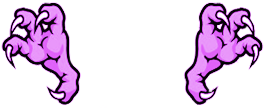
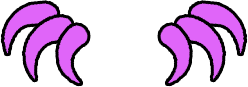
Added claws

diff --git a/Evolith/src/evolith/game/Game.java b/Evolith/src/evolith/game/Game.java
@@ -422,7 +422,7 @@ public class Game implements Runnable, Commons {
 
         //If paused, tick pause but not return
         if (paused) {
-            pausedTick();
+            pausedMultiTick();
         }
 
         //Tick involved objects
@@ -549,6 +549,54 @@ public class Game implements Runnable, Commons {
             loadGame();
             pauseMenu.setClickLoad(false);
             musicManager.play();
+            paused = !paused;
+        }
+
+        //If exit button is pressed, go back to main menu
+        if (pauseMenu.isClickExit()) {
+            pauseMenu.setClickExit(false);
+            state = States.MainMenu;
+            resetGame();
+            musicManager.stop();
+
+            if (network != null) {
+                network.endConnection();
+            }
+        }
+    }
+    
+        /**
+     * Tick the pause menu
+     */
+    private void pausedMultiTick() {
+        pauseMenu.tick();
+        keyManager.tick();
+        musicManager.tick();
+
+        //If p is pressed, go back to play
+        if (keyManager.p) {
+            paused = !paused;
+            inputKeyboard.p = false;
+            inputKeyboard.prevp = false;
+        }
+
+        //If esc is pressed, go back to play
+        if (keyManager.esc) {
+            paused = !paused;
+        }
+
+        if (!pauseMenu.isMainMenuDisplayed()) {
+            paused = !paused;
+        }
+
+        //Is save button is pressed, save current game state
+        if (pauseMenu.isClickSave()) {
+            pauseMenu.setClickSave(false);
+        }
+
+        //If load button is pressed, load current game state
+        if (pauseMenu.isClickLoad()) {
+            pauseMenu.setClickLoad(false);
             paused = !paused;
         }
 

diff --git a/Evolith/src/evolith/entities/Organism.java b/Evolith/src/evolith/entities/Organism.java
@@ -397,6 +397,8 @@ public class Organism extends Item implements Commons {
             if (maturity == 140) {
                 needOffspring = true;
             }
+            
+            needOffspring = true;
         }
 
         //Once the organisms reaches max maturity, kill it
@@ -454,7 +456,7 @@ public class Organism extends Item implements Commons {
     private void born() {        
         born = true;
         //Check if a mutation will occur. Chance is defined in the commons class
-        if (((int) (Math.random() * MUTATION_CHANCE) == 0) && !other && !game.getOrganisms().getMutPanel().isActive()) {
+        if (((int) (Math.random() * MUTATION_CHANCE) == 0 || true) && !other && !game.getOrganisms().getMutPanel().isActive()) {
             needMutation = true;
         } else {
             egg = false;

diff --git a/Evolith/src/evolith/entities/MutationManager.java b/Evolith/src/evolith/entities/MutationManager.java
@@ -42,7 +42,7 @@ public class MutationManager implements Commons{
         ArrayList<Mutation> m1 = new ArrayList<Mutation>();
         m1.add(new Mutation("Spine",20,0,0,0,false,1,-0.34,-0.35,1.72,1.72,game, org)); // Finished
         m1.add(new Mutation("Sting",20,-20,0,20,false,2,-0.1,0.95,0.8,0.8, game, org)); // Finished
-        m1.add(new Mutation("Claws",20,-20,0,-20,false,3,-0.3,1,0.9,0.9, game, org));     // Asset must be changed
+        m1.add(new Mutation("Claws",20,-20,0,-20,false,3,0.07,0.8,0.9,0.3, game, org));     // Asset must be changed
         m1.add(new Mutation("Horns",20,-20,0,-40,false,4,-0.5,-0.5,2,1, game, org));    // Finished
         mutations.add(m1);
 

diff --git a/Evolith/src/evolith/helpers/Commons.java b/Evolith/src/evolith/helpers/Commons.java
@@ -103,7 +103,7 @@ public interface Commons {
     public static final int PREDATOR_SECONDS_TO_ROAM = 10;
     
 
-    public static final int BORN_TIME = 15;
+    public static final int BORN_TIME = 3;
     
     public static final int ORG_DATA_SIZE = 9;
     public static final int RES_DATA_SIZE = 7;
